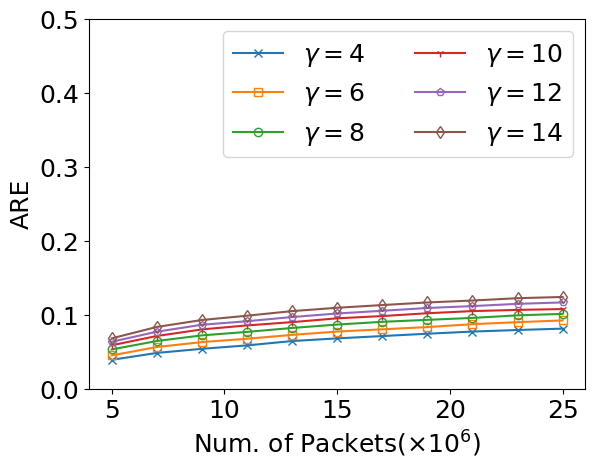
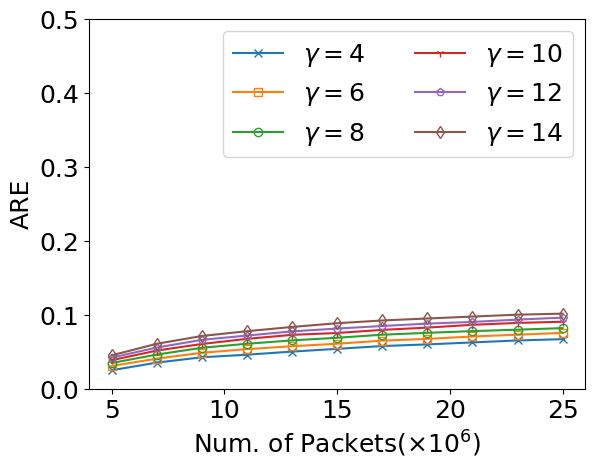
Automatic uploading. No comments!

Changed region(s): [[0.1815, 0.6282, 0.9681, 0.8077]]

diff --git a/figures/exp84514/plot.py b/figures/exp84514/plot.py
@@ -20,7 +20,7 @@ f1score_10 = []
 f1score_12 = []
 f1score_14 = []
 
-阈值 = "70"
+阈值 = "100"
 
 def 提取(gamma, 数据包数, 平均相对误差, f1score):
 	文件名 = ".".join(["ehf", "gamma", str(gamma), "npkts", str(数据包数), "caida.130000.json"])
@@ -39,6 +39,12 @@ if __name__ == "__main__":
 		are_10, f1score_10 = 提取(10, 数据包数, are_10, f1score_10)
 		are_12, f1score_12 = 提取(12, 数据包数, are_12, f1score_12)
 		are_14, f1score_14 = 提取(14, 数据包数, are_14, f1score_14)
+	print("are_14:")
+	for 项 in are_14:
+		print("%.3f" % 项)
+	print("f1score_14:")
+	for 项 in f1score_14:
+		print("%.3f" % 项)
 
 	数据包数 = range(5, 26, 2)
 	plt.figure(1)

diff --git a/figures/exp84514/test.py b/figures/exp84514/test.py
@@ -1,7 +1,4 @@
 import sys
 
-assert(3 == len(sys.argv))
-a = int(sys.argv[1])
-b = int(sys.argv[2])
-
-print("a=%d, b=%d" % (a, b))
+print("hello", )
+print("good")
